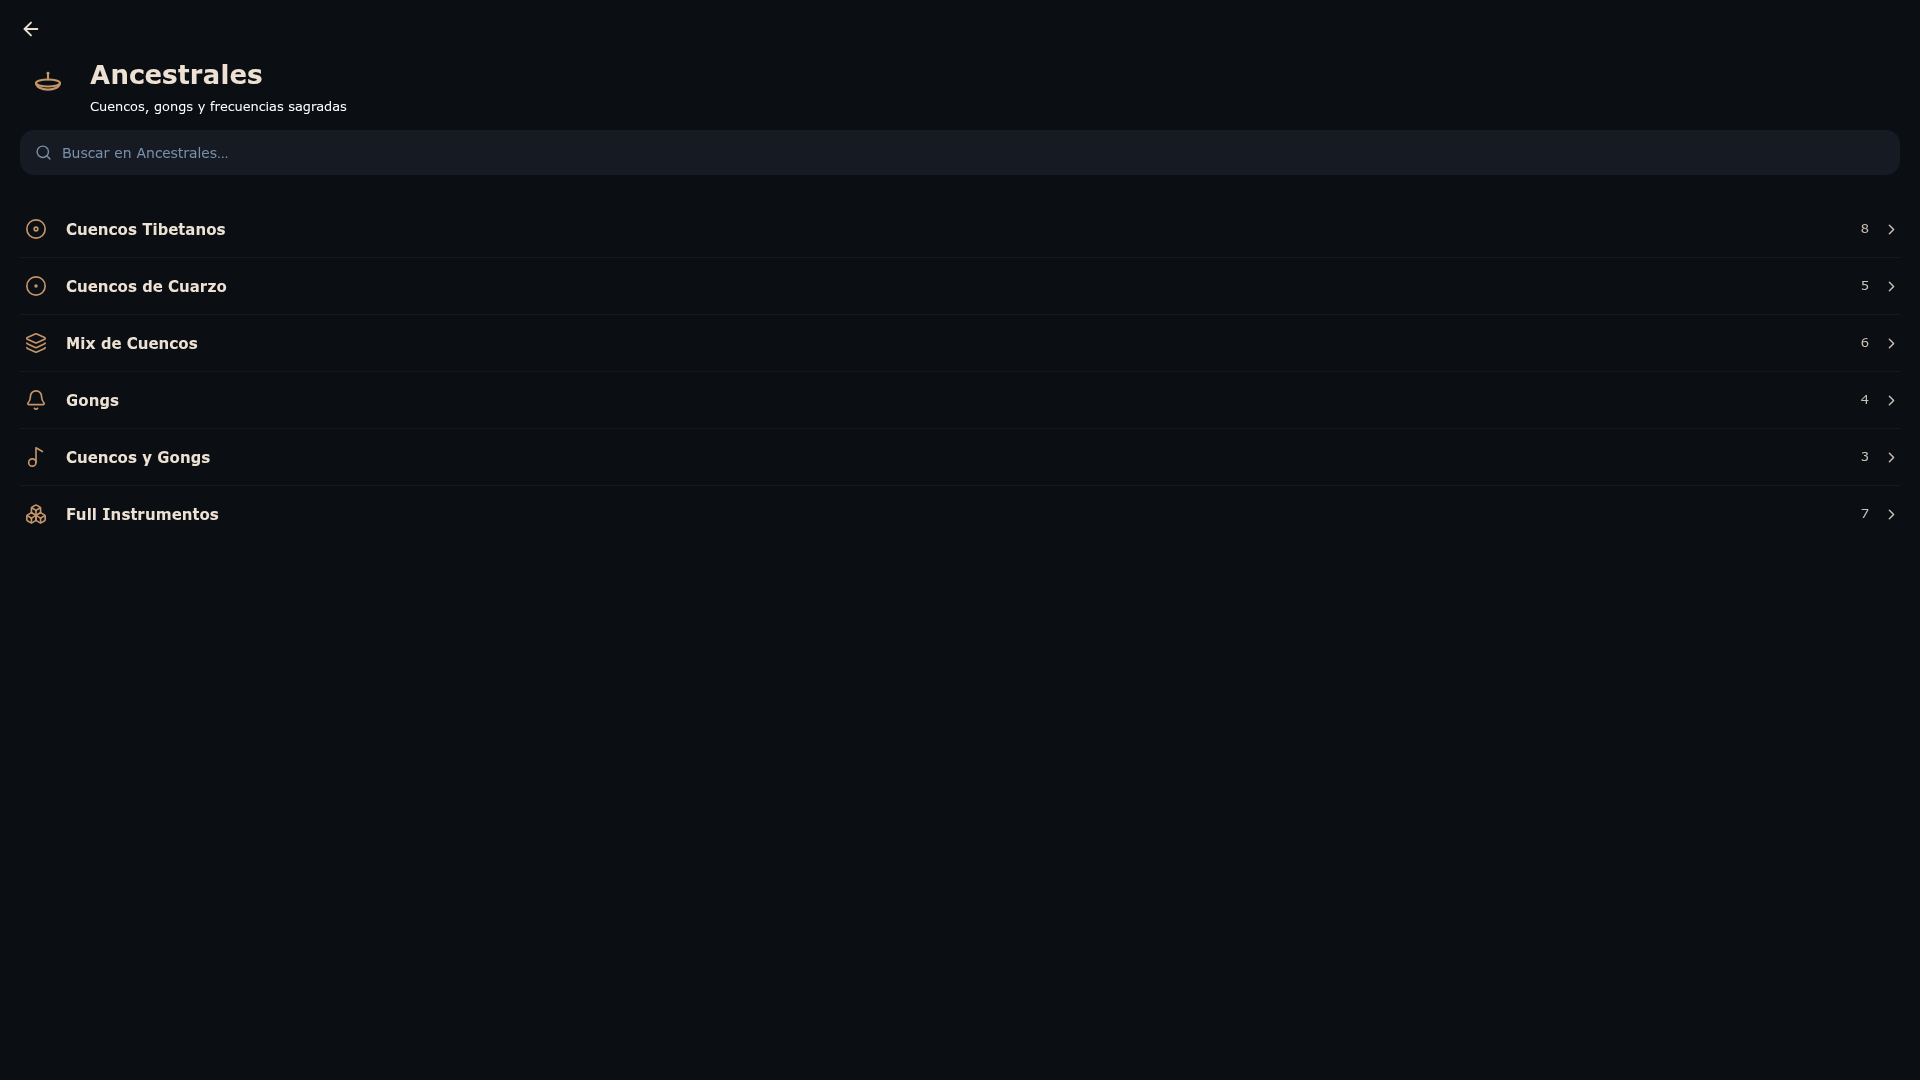
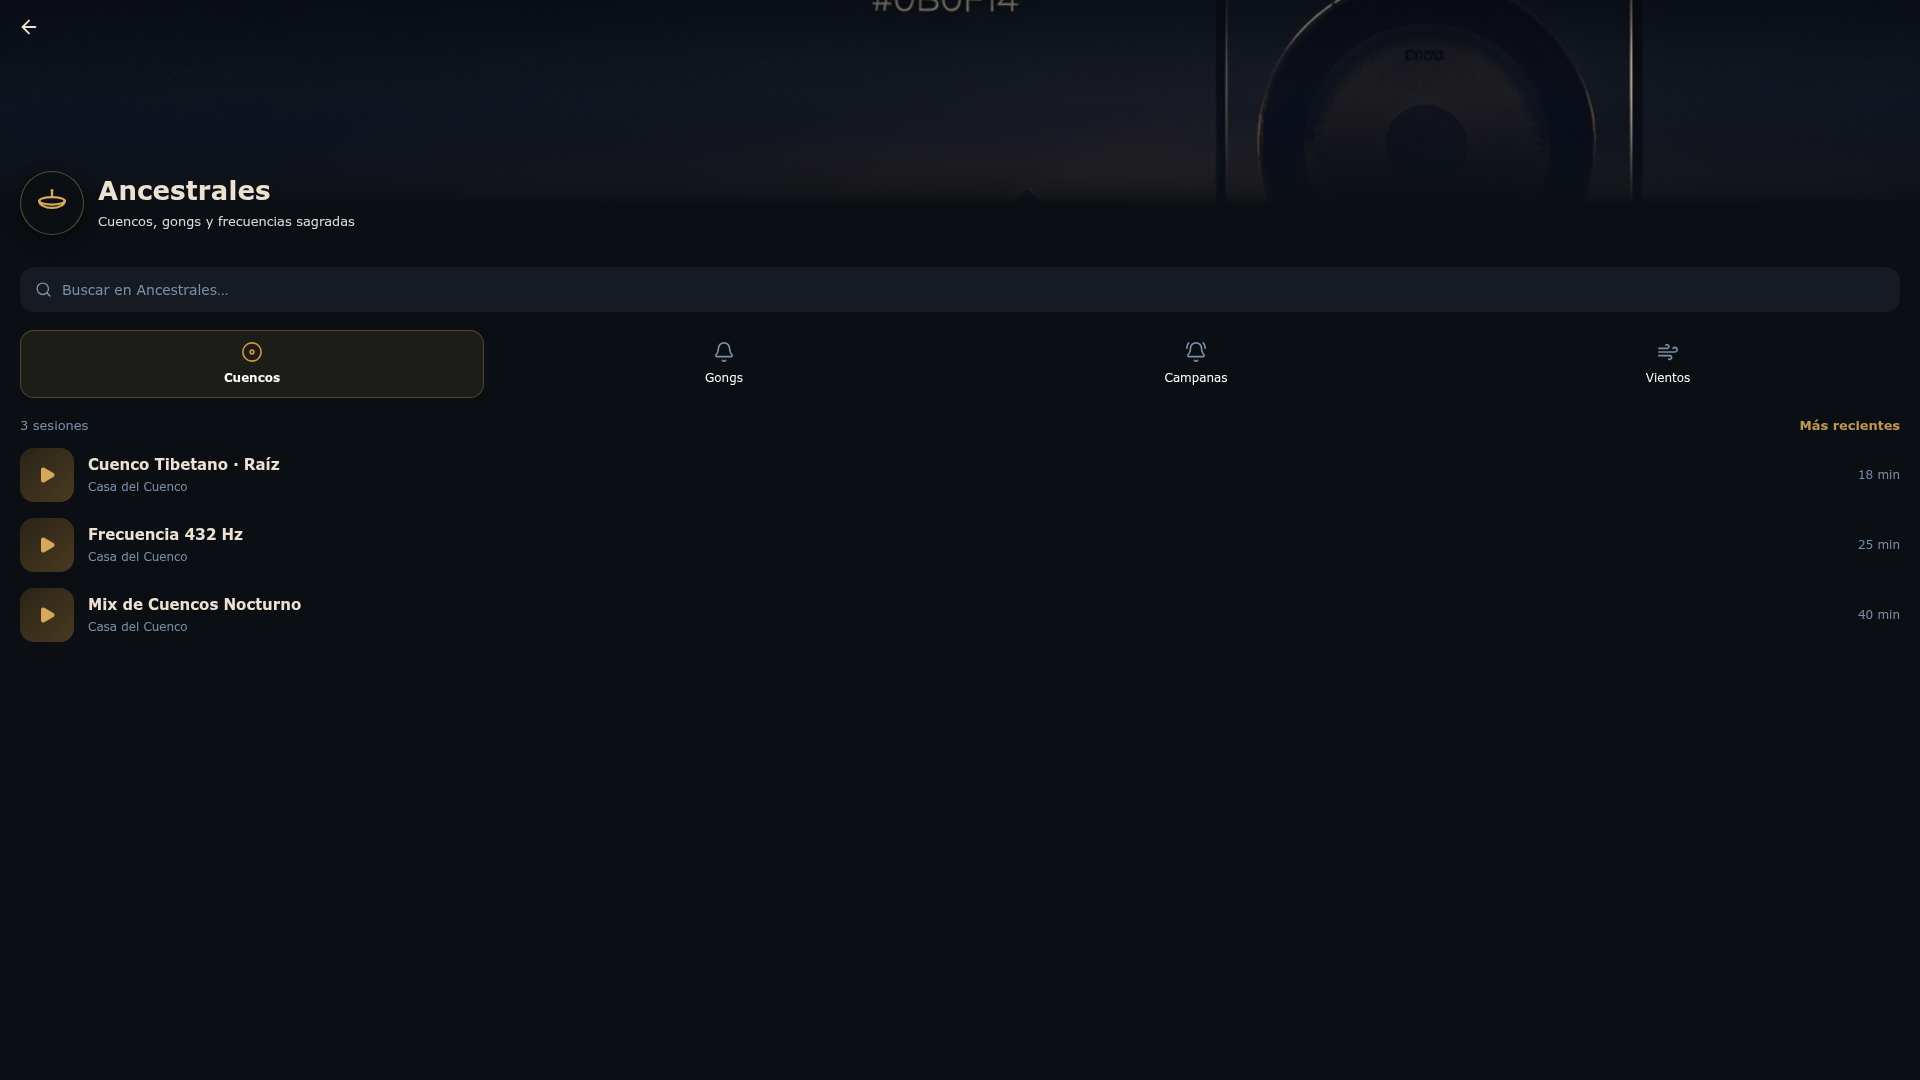
Improve header display with four distinct visual presentation options
Refactors the header component to introduce four distinct visual variants (V1-V4), enhancing UI flexibility and incorporating a new Hero component for improved visual presentation.

Replit-Commit-Author: Agent
Replit-Commit-Session-Id: 1f0974a5-e5dd-4953-87b3-088e4475a476
Replit-Commit-Checkpoint-Type: full_checkpoint
Replit-Commit-Event-Id: 9f4c4ee3-6d33-44c4-805c-6c2fa9171f1c
Replit-Commit-Screenshot-Url: https://storage.googleapis.com/screenshot-production-us-central1/5427b858-8852-4aed-954b-cd80d9fa4b6b/1f0974a5-e5dd-4953-87b3-088e4475a476/L0hn6cP
Replit-Helium-Checkpoint-Created: true

diff --git a/artifacts/mockup-sandbox/src/components/mockups/ancestrales-header/_shared.tsx b/artifacts/mockup-sandbox/src/components/mockups/ancestrales-header/_shared.tsx
@@ -1,8 +1,9 @@
-import { ArrowLeft, Search, ChevronRight, Disc, CircleDot, Layers, Bell, Music2, Boxes } from "lucide-react";
+import { ArrowLeft, Search, Disc, Bell, BellRing, Wind, Play } from "lucide-react";
 import type { ReactNode } from "react";
 
 export const T = {
   bg: "#0B0F14",
+  bgDeep: "#06070F",
   card: "#151A23",
   fg: "#EDE1D3",
   gold: "#BE9650",
@@ -13,9 +14,11 @@ export const T = {
   border: "rgba(182,149,95,0.08)",
 };
 
-export function BowlIcon({ size = 32, color = T.icon }: { size?: number; color?: string }) {
+export const HERO_IMG = "/__mockup/images/ancestrales-hero.png";
+
+export function BowlIcon({ size = 32, color = T.icon, stroke = 1.6 }: { size?: number; color?: string; stroke?: number }) {
   return (
-    <svg width={size} height={size} viewBox="0 0 24 24" fill="none" stroke={color} strokeWidth={1.6} strokeLinecap="round" strokeLinejoin="round">
+    <svg width={size} height={size} viewBox="0 0 24 24" fill="none" stroke={color} strokeWidth={stroke} strokeLinecap="round" strokeLinejoin="round">
       <path d="M3 10.5a9 5 0 0 0 18 0" />
       <ellipse cx="12" cy="10.5" rx="9" ry="2.6" />
       <path d="M12 4.2v3.6" />
@@ -23,15 +26,6 @@ export function BowlIcon({ size = 32, color = T.icon }: { size?: number; color?:
     </svg>
   );
 }
-
-export const CATS = [
-  { tag: "Cuencos Tibetanos", Icon: Disc, count: 8 },
-  { tag: "Cuencos de Cuarzo", Icon: CircleDot, count: 5 },
-  { tag: "Mix de Cuencos", Icon: Layers, count: 6 },
-  { tag: "Gongs", Icon: Bell, count: 4 },
-  { tag: "Cuencos y Gongs", Icon: Music2, count: 3 },
-  { tag: "Full Instrumentos", Icon: Boxes, count: 7 },
-];
 
 export function Frame({ children }: { children: ReactNode }) {
   return (
@@ -43,7 +37,6 @@ export function Frame({ children }: { children: ReactNode }) {
         fontFamily: "system-ui, -apple-system, sans-serif",
         display: "flex",
         flexDirection: "column",
-        paddingTop: 18,
       }}
     >
       {children}
@@ -51,9 +44,27 @@ export function Frame({ children }: { children: ReactNode }) {
   );
 }
 
-export function BackBtn() {
+/** Hero banner with a subtle zen fade into the app background. */
+export function Hero({ h = 204, children }: { h?: number; children?: ReactNode }) {
   return (
-    <div style={{ padding: "0 20px", marginBottom: 14 }}>
+    <div style={{ position: "relative", width: "100%", height: h, overflow: "hidden" }}>
+      <img
+        src={HERO_IMG}
+        alt=""
+        style={{ position: "absolute", inset: 0, width: "100%", height: "100%", objectFit: "cover" }}
+      />
+      {/* subtle top scrim so the back button stays legible */}
+      <div style={{ position: "absolute", top: 0, left: 0, right: 0, height: 96, background: "linear-gradient(to bottom, rgba(6,7,15,0.55), transparent)" }} />
+      {/* gentle zen fade into the app background at the bottom */}
+      <div style={{ position: "absolute", inset: 0, background: `linear-gradient(to bottom, rgba(11,15,20,0.10) 0%, rgba(11,15,20,0) 30%, rgba(8,10,24,0.45) 66%, ${T.bg} 100%)` }} />
+      {children}
+    </div>
+  );
+}
+
+export function BackBtnHero() {
+  return (
+    <div style={{ position: "absolute", top: 16, left: 18, zIndex: 3 }}>
       <ArrowLeft size={22} color={T.fg} strokeWidth={2} />
     </div>
   );
@@ -61,7 +72,7 @@ export function BackBtn() {
 
 export function SearchBar({ subtle }: { subtle?: boolean }) {
   return (
-    <div style={{ padding: "0 20px", marginTop: 14, marginBottom: 26 }}>
+    <div style={{ padding: "0 20px", marginTop: 16, marginBottom: 18 }}>
       <div
         style={{
           display: "flex",
@@ -80,26 +91,73 @@ export function SearchBar({ subtle }: { subtle?: boolean }) {
   );
 }
 
-export function CatList() {
+const TABS = [
+  { label: "Cuencos", Icon: Disc, sel: true },
+  { label: "Gongs", Icon: Bell, sel: false },
+  { label: "Campanas", Icon: BellRing, sel: false },
+  { label: "Vientos", Icon: Wind, sel: false },
+];
+
+export function Tabs() {
   return (
-    <div style={{ padding: "0 20px" }}>
-      {CATS.map((c, i) => (
+    <div style={{ display: "flex", gap: 8, padding: "0 20px", marginBottom: 18 }}>
+      {TABS.map((t) => (
         <div
-          key={c.tag}
+          key={t.label}
           style={{
+            flex: 1,
             display: "flex",
+            flexDirection: "column",
             alignItems: "center",
-            gap: 14,
-            padding: "12px 0",
-            borderBottom: i < CATS.length - 1 ? `1px solid ${T.border}` : "none",
+            gap: 6,
+            padding: "10px 0",
+            borderRadius: 14,
+            background: t.sel ? "rgba(190,150,80,0.10)" : "transparent",
+            border: t.sel ? "1px solid rgba(190,150,80,0.32)" : "1px solid transparent",
           }}
         >
-          <div style={{ width: 32, height: 32, display: "flex", alignItems: "center", justifyContent: "center" }}>
-            <c.Icon size={22} color={T.icon} strokeWidth={1.8} />
+          <t.Icon size={22} color={t.sel ? "#D6933A" : T.muted} strokeWidth={1.8} />
+          <span style={{ color: "#FFFFFF", fontSize: 12, fontWeight: t.sel ? 700 : 400 }}>{t.label}</span>
+        </div>
+      ))}
+    </div>
+  );
+}
+
+const SESSIONS = [
+  { title: "Cuenco Tibetano · Raíz", sub: "Casa del Cuenco", dur: "18 min" },
+  { title: "Frecuencia 432 Hz", sub: "Casa del Cuenco", dur: "25 min" },
+  { title: "Mix de Cuencos Nocturno", sub: "Casa del Cuenco", dur: "40 min" },
+];
+
+export function SessionList() {
+  return (
+    <div style={{ padding: "0 20px" }}>
+      <div style={{ display: "flex", alignItems: "center", justifyContent: "space-between", marginBottom: 12 }}>
+        <span style={{ color: T.muted, fontSize: 13, fontWeight: 500 }}>3 sesiones</span>
+        <span style={{ color: T.gold, fontSize: 13, fontWeight: 600 }}>Más recientes</span>
+      </div>
+      {SESSIONS.map((s) => (
+        <div key={s.title} style={{ display: "flex", alignItems: "center", gap: 14, marginBottom: 16 }}>
+          <div
+            style={{
+              width: 54,
+              height: 54,
+              borderRadius: 14,
+              background: "linear-gradient(135deg, #2a2418, #4a3a1f)",
+              display: "flex",
+              alignItems: "center",
+              justifyContent: "center",
+              flexShrink: 0,
+            }}
+          >
+            <Play size={18} color={T.accent} fill={T.accent} />
           </div>
-          <span style={{ flex: 1, color: T.fg, fontSize: 15, fontWeight: 600, letterSpacing: 0.1 }}>{c.tag}</span>
-          <span style={{ color: T.fg, fontSize: 13, fontWeight: 500, opacity: 0.85 }}>{c.count}</span>
-          <ChevronRight size={17} color={T.fg} strokeWidth={2} style={{ opacity: 0.85 }} />
+          <div style={{ flex: 1 }}>
+            <div style={{ color: T.fg, fontSize: 15, fontWeight: 600, marginBottom: 3 }}>{s.title}</div>
+            <div style={{ color: T.muted, fontSize: 12 }}>{s.sub}</div>
+          </div>
+          <span style={{ color: T.muted, fontSize: 12, fontWeight: 500 }}>{s.dur}</span>
         </div>
       ))}
     </div>

diff --git a/artifacts/mockup-sandbox/src/components/mockups/ancestrales-header/V3Apilado.tsx b/artifacts/mockup-sandbox/src/components/mockups/ancestrales-header/V3Apilado.tsx
@@ -1,33 +1,38 @@
-import { T, BowlIcon, BackBtn, SearchBar, CatList, Frame } from "./_shared";
+import { T, BowlIcon, Hero, BackBtnHero, SearchBar, Tabs, SessionList, Frame } from "./_shared";
 
+/** Ícono integrado en la esquina superior del hero; título apilado debajo. */
 export function V3Apilado() {
   return (
     <Frame>
-      <BackBtn />
-      <div style={{ padding: "0 20px" }}>
+      <Hero>
+        <BackBtnHero />
+        {/* ícono apoyado en la esquina del hero, mezclado con la bruma */}
         <div
           style={{
-            width: 64,
-            height: 64,
-            borderRadius: 18,
-            background: "rgba(196,149,106,0.10)",
-            display: "flex",
-            alignItems: "center",
-            justifyContent: "center",
-            marginBottom: 14,
+            position: "absolute",
+            top: 12,
+            right: 16,
+            zIndex: 3,
+            opacity: 1,
+            filter: "drop-shadow(0 0 14px rgba(190,150,80,0.45))",
           }}
         >
-          <BowlIcon size={38} />
+          <BowlIcon size={52} color={T.accent} stroke={1.5} />
         </div>
-        <div style={{ color: T.fg, fontSize: 28, fontWeight: 700, letterSpacing: 0.2, marginBottom: 5 }}>
-          Ancestrales
+        {/* título sobre la parte baja del hero */}
+        <div style={{ position: "absolute", left: 20, bottom: 16, zIndex: 3 }}>
+          <div style={{ color: T.fg, fontSize: 30, fontWeight: 700, letterSpacing: 0.2, lineHeight: "32px" }}>
+            Ancestrales
+          </div>
+          <div style={{ color: T.sub, fontSize: 13, lineHeight: "19px", opacity: 0.85, marginTop: 4 }}>
+            Cuencos, gongs y frecuencias sagradas
+          </div>
         </div>
-        <div style={{ color: T.sub, fontSize: 13, lineHeight: "19px" }}>
-          Cuencos, gongs y frecuencias sagradas
-        </div>
-      </div>
+      </Hero>
+      <div style={{ marginTop: 4 }} />
       <SearchBar />
-      <CatList />
+      <Tabs />
+      <SessionList />
     </Frame>
   );
 }

diff --git a/artifacts/mockup-sandbox/src/components/mockups/ancestrales-header/V4Protagonista.tsx b/artifacts/mockup-sandbox/src/components/mockups/ancestrales-header/V4Protagonista.tsx
@@ -1,22 +1,42 @@
-import { T, BowlIcon, BackBtn, SearchBar, CatList, Frame } from "./_shared";
+import { T, BowlIcon, Hero, BackBtnHero, SearchBar, Tabs, SessionList, Frame } from "./_shared";
 
+/** Ícono como marca de agua, centrado dentro del hero. */
 export function V4Protagonista() {
   return (
     <Frame>
-      <BackBtn />
-      <div style={{ padding: "0 20px" }}>
-        <div style={{ display: "flex", alignItems: "flex-end", justifyContent: "space-between" }}>
-          <div style={{ color: T.fg, fontSize: 32, fontWeight: 700, letterSpacing: 0.2, lineHeight: "34px" }}>
+      <Hero h={216}>
+        <BackBtnHero />
+        {/* marca de agua: ícono grande translúcido al centro del hero */}
+        <div
+          style={{
+            position: "absolute",
+            top: 0,
+            left: 0,
+            right: 0,
+            bottom: 38,
+            display: "flex",
+            alignItems: "center",
+            justifyContent: "center",
+            zIndex: 2,
+            opacity: 0.5,
+          }}
+        >
+          <BowlIcon size={104} color={T.accent} stroke={1} />
+        </div>
+        {/* título sobre el borde inferior del hero */}
+        <div style={{ position: "absolute", left: 20, right: 20, bottom: 14, zIndex: 3, textAlign: "center" }}>
+          <div style={{ color: T.fg, fontSize: 30, fontWeight: 700, letterSpacing: 1.5, lineHeight: "32px" }}>
             Ancestrales
           </div>
-          <BowlIcon size={30} color={T.gold} />
+          <div style={{ color: T.sub, fontSize: 13, lineHeight: "19px", opacity: 0.85, marginTop: 4 }}>
+            Cuencos, gongs y frecuencias sagradas
+          </div>
         </div>
-        <div style={{ color: T.sub, fontSize: 13, lineHeight: "19px", marginTop: 6 }}>
-          Cuencos, gongs y frecuencias sagradas
-        </div>
-      </div>
+      </Hero>
+      <div style={{ marginTop: 6 }} />
       <SearchBar subtle />
-      <CatList />
+      <Tabs />
+      <SessionList />
     </Frame>
   );
 }

diff --git a/artifacts/mockup-sandbox/src/components/mockups/ancestrales-header/V1Lateral.tsx b/artifacts/mockup-sandbox/src/components/mockups/ancestrales-header/V1Lateral.tsx
@@ -1,24 +1,42 @@
-import { T, BowlIcon, BackBtn, SearchBar, CatList, Frame } from "./_shared";
+import { T, BowlIcon, Hero, BackBtnHero, SearchBar, Tabs, SessionList, Frame } from "./_shared";
 
+/** Medallón lateral apoyado sobre el fade del hero. */
 export function V1Lateral() {
   return (
     <Frame>
-      <BackBtn />
-      <div style={{ padding: "0 20px", display: "flex", alignItems: "center", gap: 14 }}>
-        <div style={{ width: 56, height: 56, display: "flex", alignItems: "center", justifyContent: "center" }}>
-          <BowlIcon size={32} />
+      <Hero>
+        <BackBtnHero />
+      </Hero>
+      <div style={{ padding: "0 20px", marginTop: -34, display: "flex", alignItems: "flex-end", gap: 14, position: "relative", zIndex: 2 }}>
+        <div
+          style={{
+            width: 64,
+            height: 64,
+            borderRadius: 32,
+            background: "rgba(11,15,20,0.72)",
+            border: "1px solid rgba(190,150,80,0.45)",
+            display: "flex",
+            alignItems: "center",
+            justifyContent: "center",
+            boxShadow: "0 6px 18px rgba(0,0,0,0.45)",
+            flexShrink: 0,
+          }}
+        >
+          <BowlIcon size={34} color={T.accent} />
         </div>
-        <div style={{ flex: 1 }}>
-          <div style={{ color: T.fg, fontSize: 26, fontWeight: 700, letterSpacing: 0.2, marginBottom: 4 }}>
+        <div style={{ flex: 1, paddingBottom: 4 }}>
+          <div style={{ color: T.fg, fontSize: 26, fontWeight: 700, letterSpacing: 0.2, marginBottom: 3 }}>
             Ancestrales
           </div>
-          <div style={{ color: T.sub, fontSize: 13, lineHeight: "19px" }}>
+          <div style={{ color: T.sub, fontSize: 13, lineHeight: "19px", opacity: 0.85 }}>
             Cuencos, gongs y frecuencias sagradas
           </div>
         </div>
       </div>
+      <div style={{ marginTop: 16 }} />
       <SearchBar />
-      <CatList />
+      <Tabs />
+      <SessionList />
     </Frame>
   );
 }

diff --git a/artifacts/mockup-sandbox/src/components/mockups/ancestrales-header/V2Centrado.tsx b/artifacts/mockup-sandbox/src/components/mockups/ancestrales-header/V2Centrado.tsx
@@ -1,33 +1,40 @@
-import { T, BowlIcon, BackBtn, SearchBar, CatList, Frame } from "./_shared";
+import { T, BowlIcon, Hero, BackBtnHero, SearchBar, Tabs, SessionList, Frame } from "./_shared";
 
+/** Medallón centrado, flotando sobre el centro del fade del hero. */
 export function V2Centrado() {
   return (
     <Frame>
-      <BackBtn />
-      <div style={{ padding: "0 20px", display: "flex", flexDirection: "column", alignItems: "center", textAlign: "center" }}>
+      <Hero>
+        <BackBtnHero />
+      </Hero>
+      <div style={{ display: "flex", flexDirection: "column", alignItems: "center", textAlign: "center", marginTop: -40, position: "relative", zIndex: 2, padding: "0 20px" }}>
         <div
           style={{
-            width: 60,
-            height: 60,
-            borderRadius: 30,
-            background: "rgba(196,149,106,0.10)",
+            width: 72,
+            height: 72,
+            borderRadius: 36,
+            background: "rgba(11,15,20,0.72)",
+            border: "1px solid rgba(190,150,80,0.45)",
             display: "flex",
             alignItems: "center",
             justifyContent: "center",
+            boxShadow: "0 6px 20px rgba(0,0,0,0.5)",
             marginBottom: 12,
           }}
         >
-          <BowlIcon size={34} />
+          <BowlIcon size={38} color={T.accent} />
         </div>
         <div style={{ color: T.fg, fontSize: 26, fontWeight: 700, letterSpacing: 0.2, marginBottom: 4 }}>
           Ancestrales
         </div>
-        <div style={{ color: T.sub, fontSize: 13, lineHeight: "19px" }}>
+        <div style={{ color: T.sub, fontSize: 13, lineHeight: "19px", opacity: 0.85 }}>
           Cuencos, gongs y frecuencias sagradas
         </div>
       </div>
+      <div style={{ marginTop: 18 }} />
       <SearchBar />
-      <CatList />
+      <Tabs />
+      <SessionList />
     </Frame>
   );
 }
